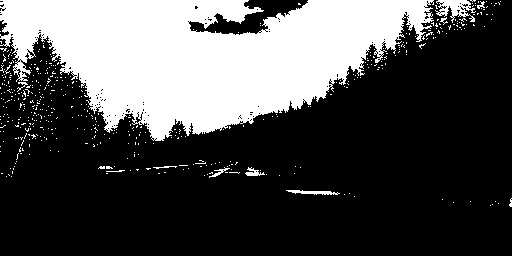
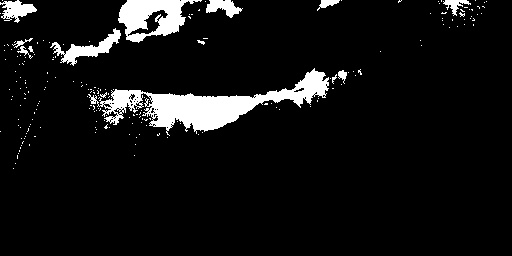
d

diff --git a/blancoynegro.py b/blancoynegro.py
@@ -24,7 +24,7 @@ def blancoynegro(imagen):
     valorF = imagen.shape[0]
     valorC = imagen.shape[1]
     bw = np.zeros((valorF, valorC))
-    valorIntermedio = 127
+    valorIntermedio = 200
     for x in range (len(bw)):
         for y in range (valorC):
             if imagen[x][y] <= valorIntermedio:
